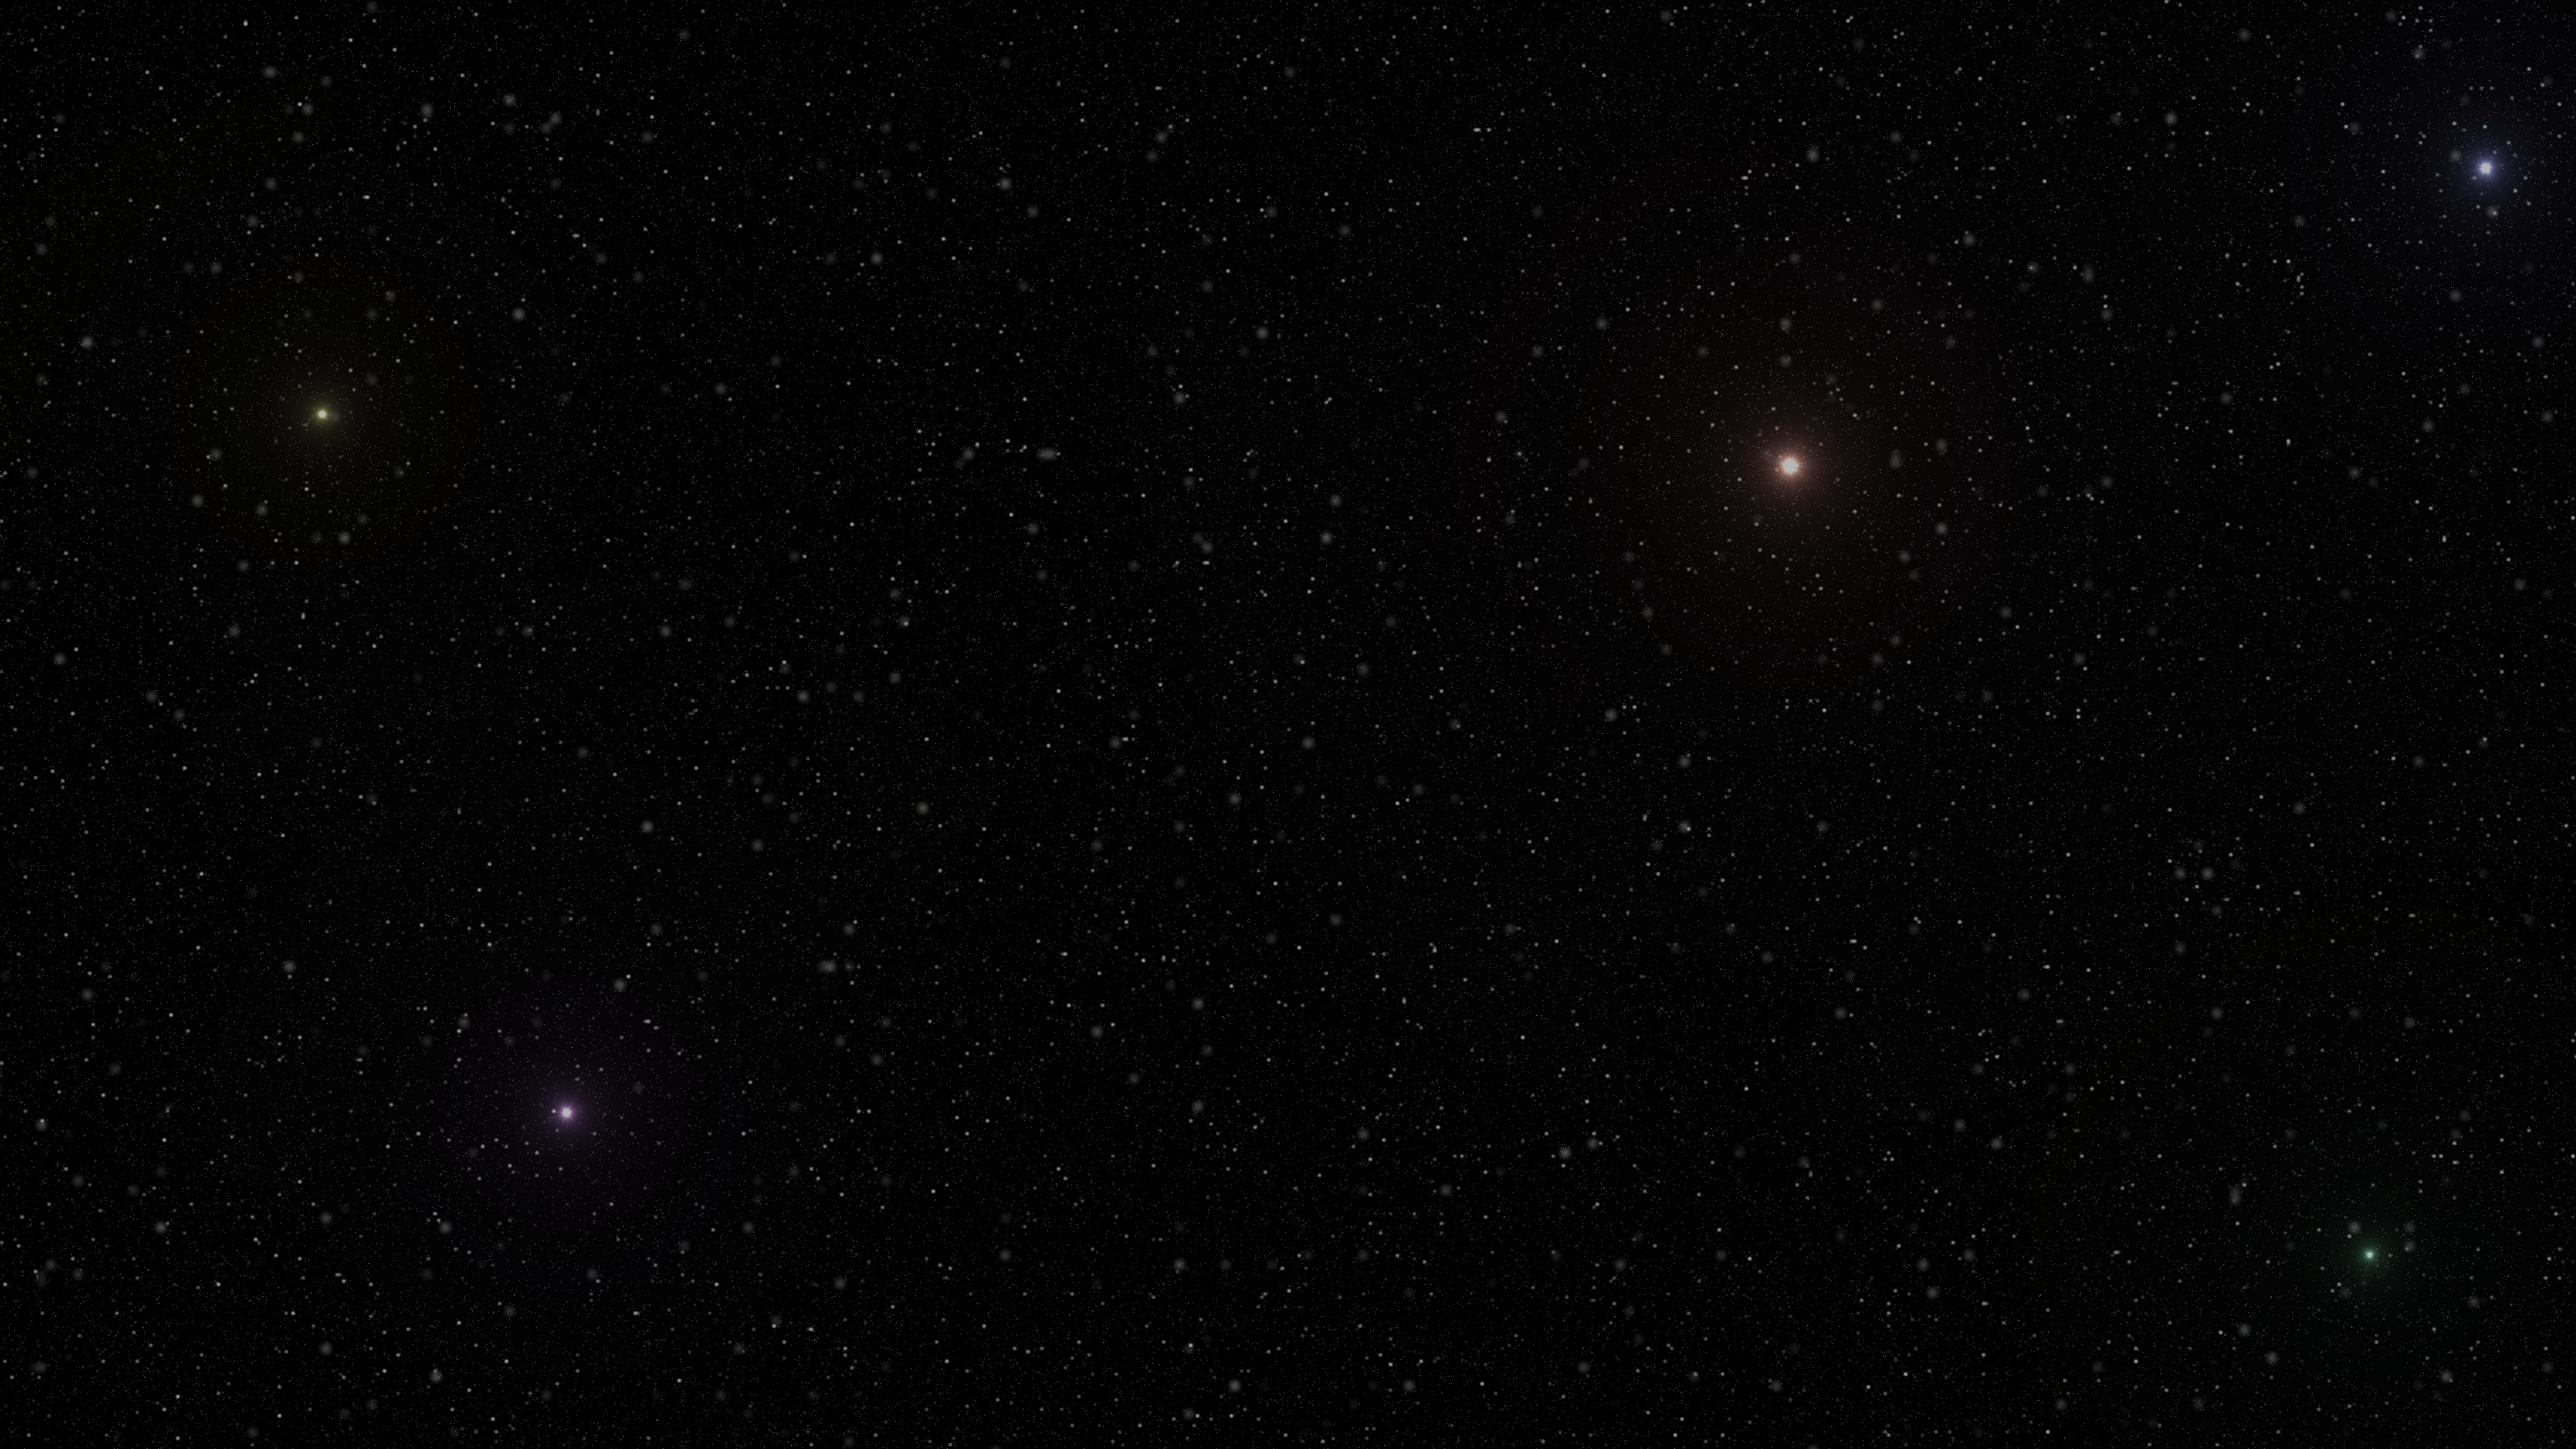
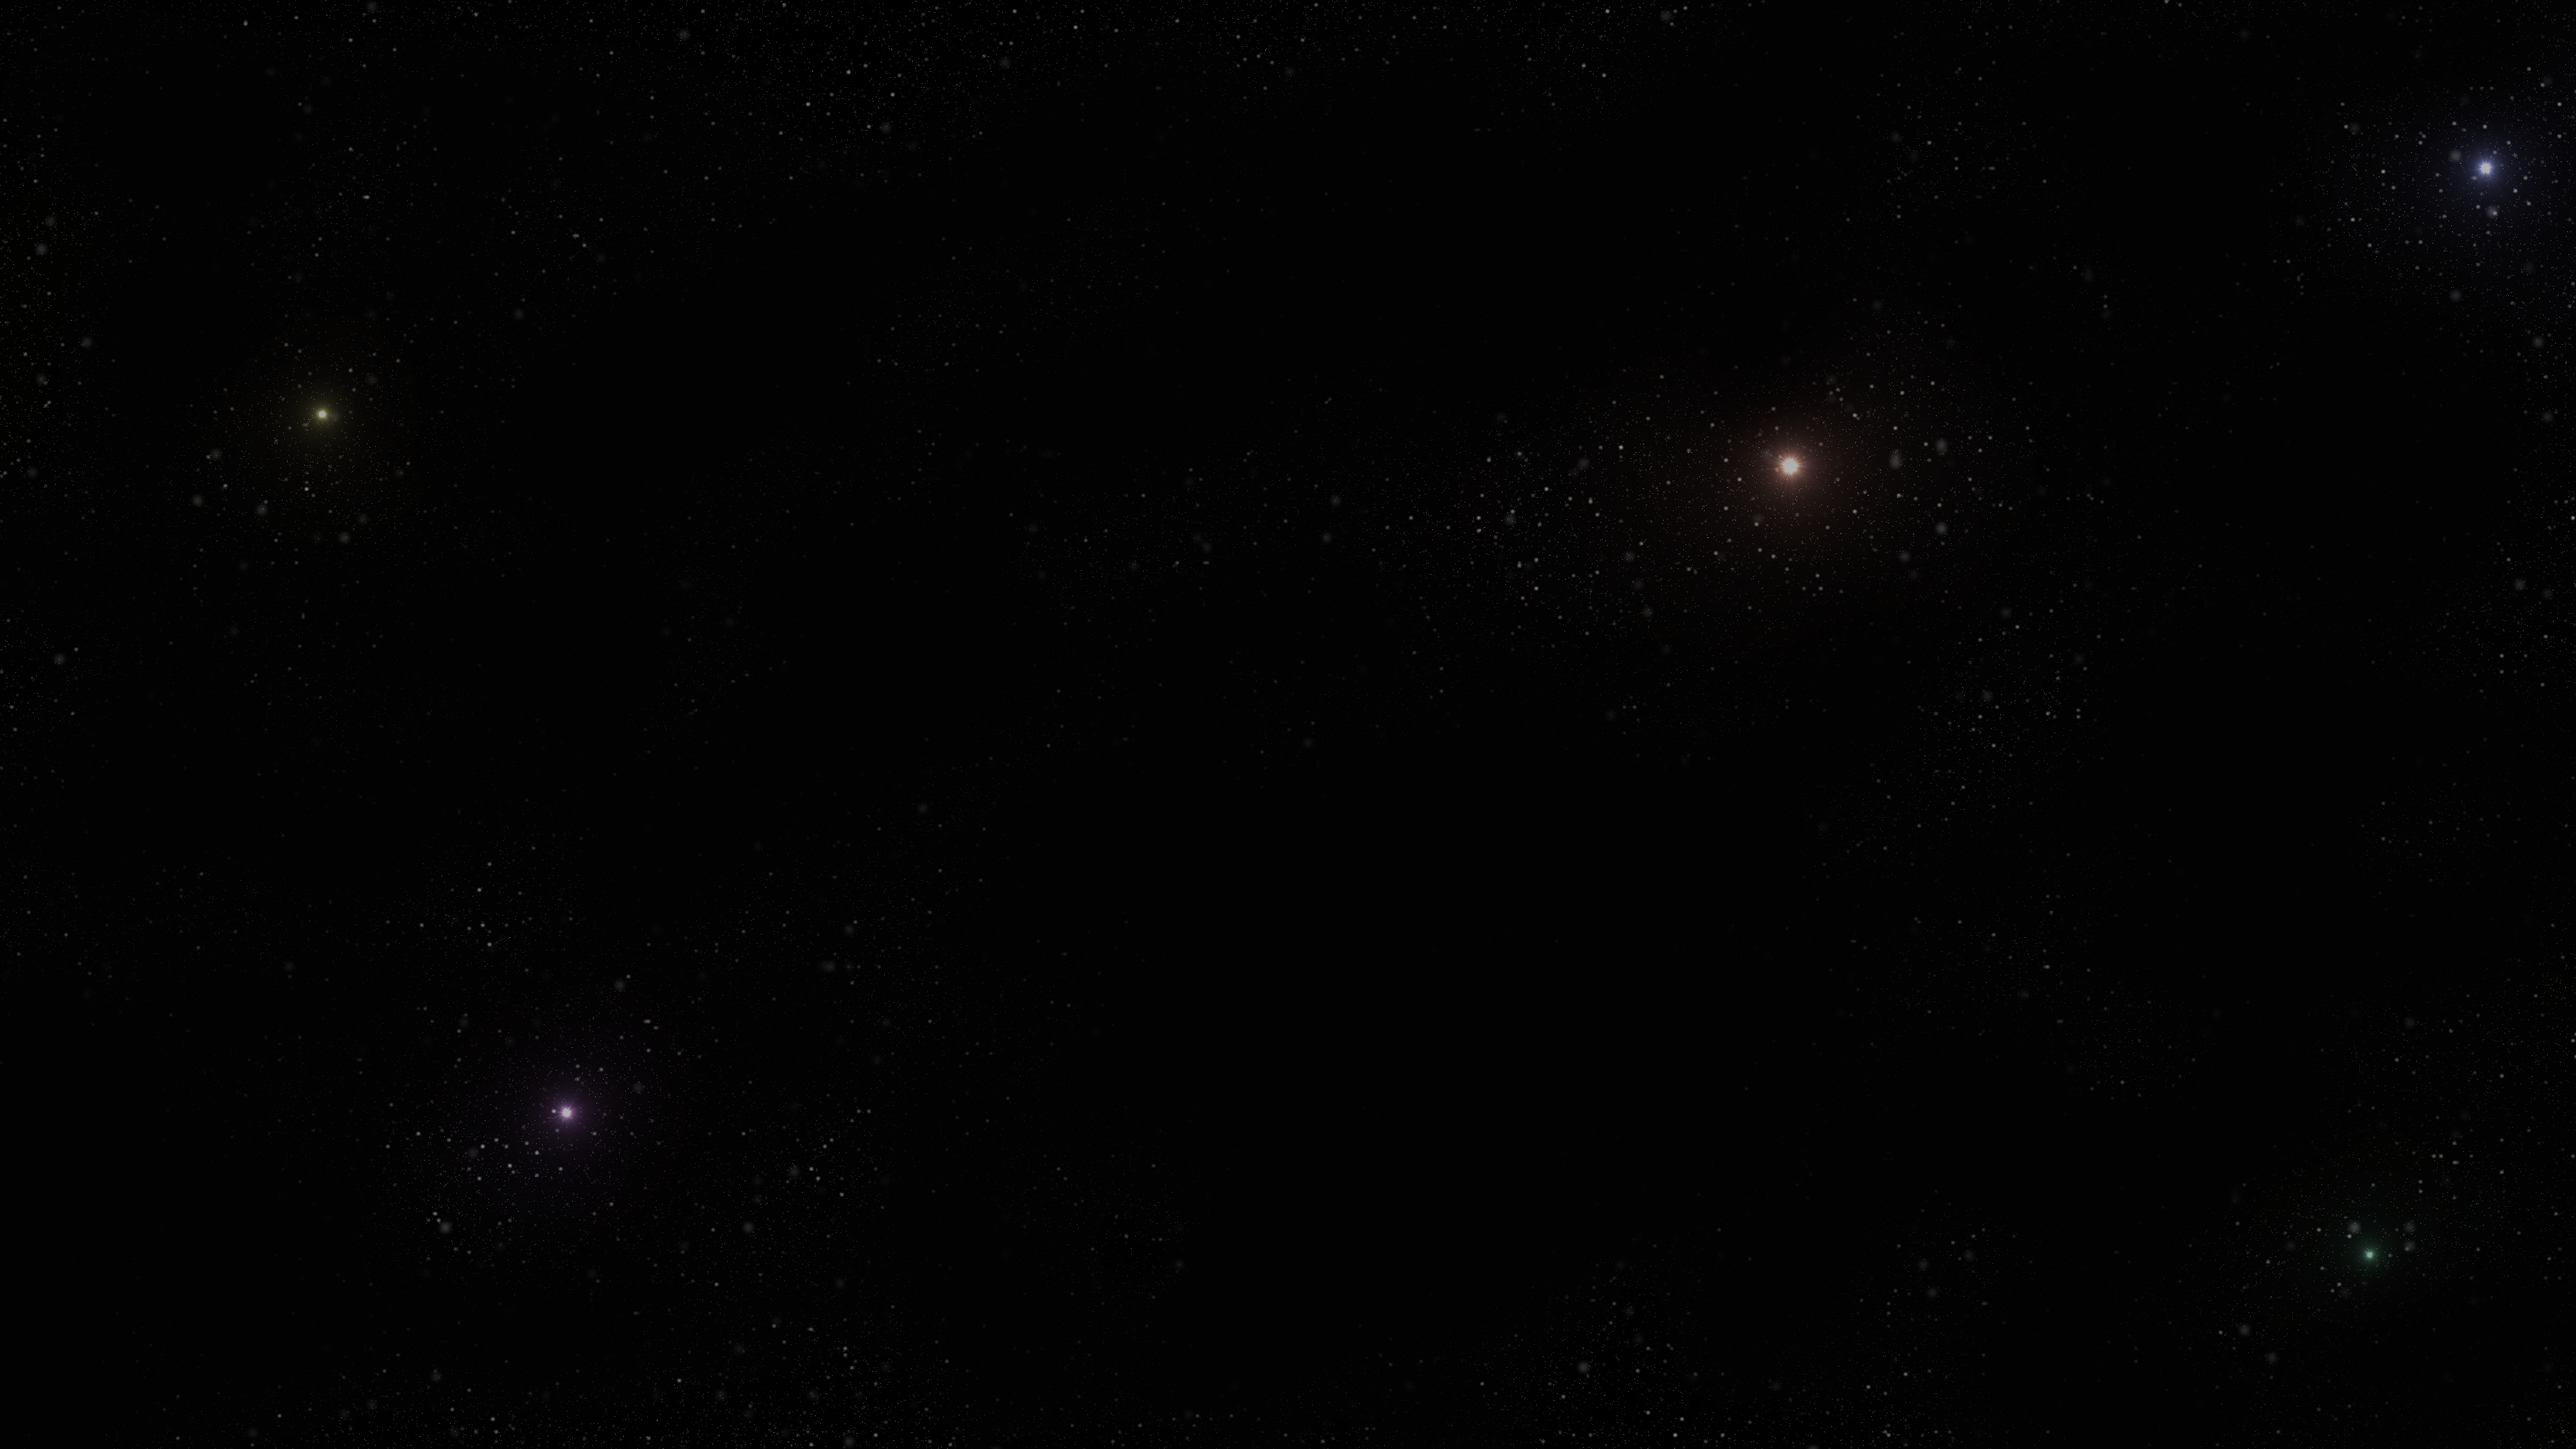
Create moving background stars - Add star images to screen and move them down based on size - Clean up original image by removing excess stars

diff --git a/src/scenes/MenuScene.js b/src/scenes/MenuScene.js
@@ -1,5 +1,5 @@
 import { Scene } from 'phaser';
-import{ musicConfig } from '../config/gameConfig';
+import{ musicConfig, config } from '../config/gameConfig';
 import { menuConfig } from '../config/gameConfig';
 import logoImg from '../assets/img/XION-logo.png';
 import star from '../assets/img/star.png';
@@ -80,9 +80,20 @@ class MenuScene extends Scene {
         /**
          * Add background
          */
+        this.background = this.add.image(0, 0, 'background').setOrigin(0, 0).setScale(0.5);
         this.stars = this.physics.add.group();
 
-        this.background = this.add.image(0, 0, 'background').setOrigin(0, 0).setScale(0.5);
+        for (var i = 0; i < 40; i++) {
+            this.stars.create(0 + Math.random() * config.width, 0 + Math.random() * config.height, 'star');
+        };
+
+        Phaser.Actions.Call(this.stars.getChildren(), (item) => {
+            item.setScale(Math.random());
+            item.setVelocityY(Math.random() * ((item._scaleX) * 7));
+            // console.log(item);
+        });
+        // this.star.push(this.starArr)
+
         // Add XION logo to screen
         this.logo = this.add.image(450, 150, "logo").setScale(0.7);
         // Add window frame
@@ -94,12 +105,22 @@ class MenuScene extends Scene {
 
         // Add and start background music
         this.menuMusic = this.sound.add('ambient_main', musicConfig);
-        // this.menuMusic.play();
+        this.menuMusic.play();
 
     }
 
     update() {
-        // this.background.tilePositionY -= 0.1;
+        this.background.tilePositionY -= 1;
+        /**
+         * Check if stars are below screen and reset
+         */
+        Phaser.Actions.Call(this.stars.getChildren(), (item) => {
+            if (item.y > config.height + 10) {
+                item.y = -10;
+                item.x = Math.random() * config.width;
+                console.log('Off Page');
+            }
+        });
     }
 
     resetMenuSelections() {
